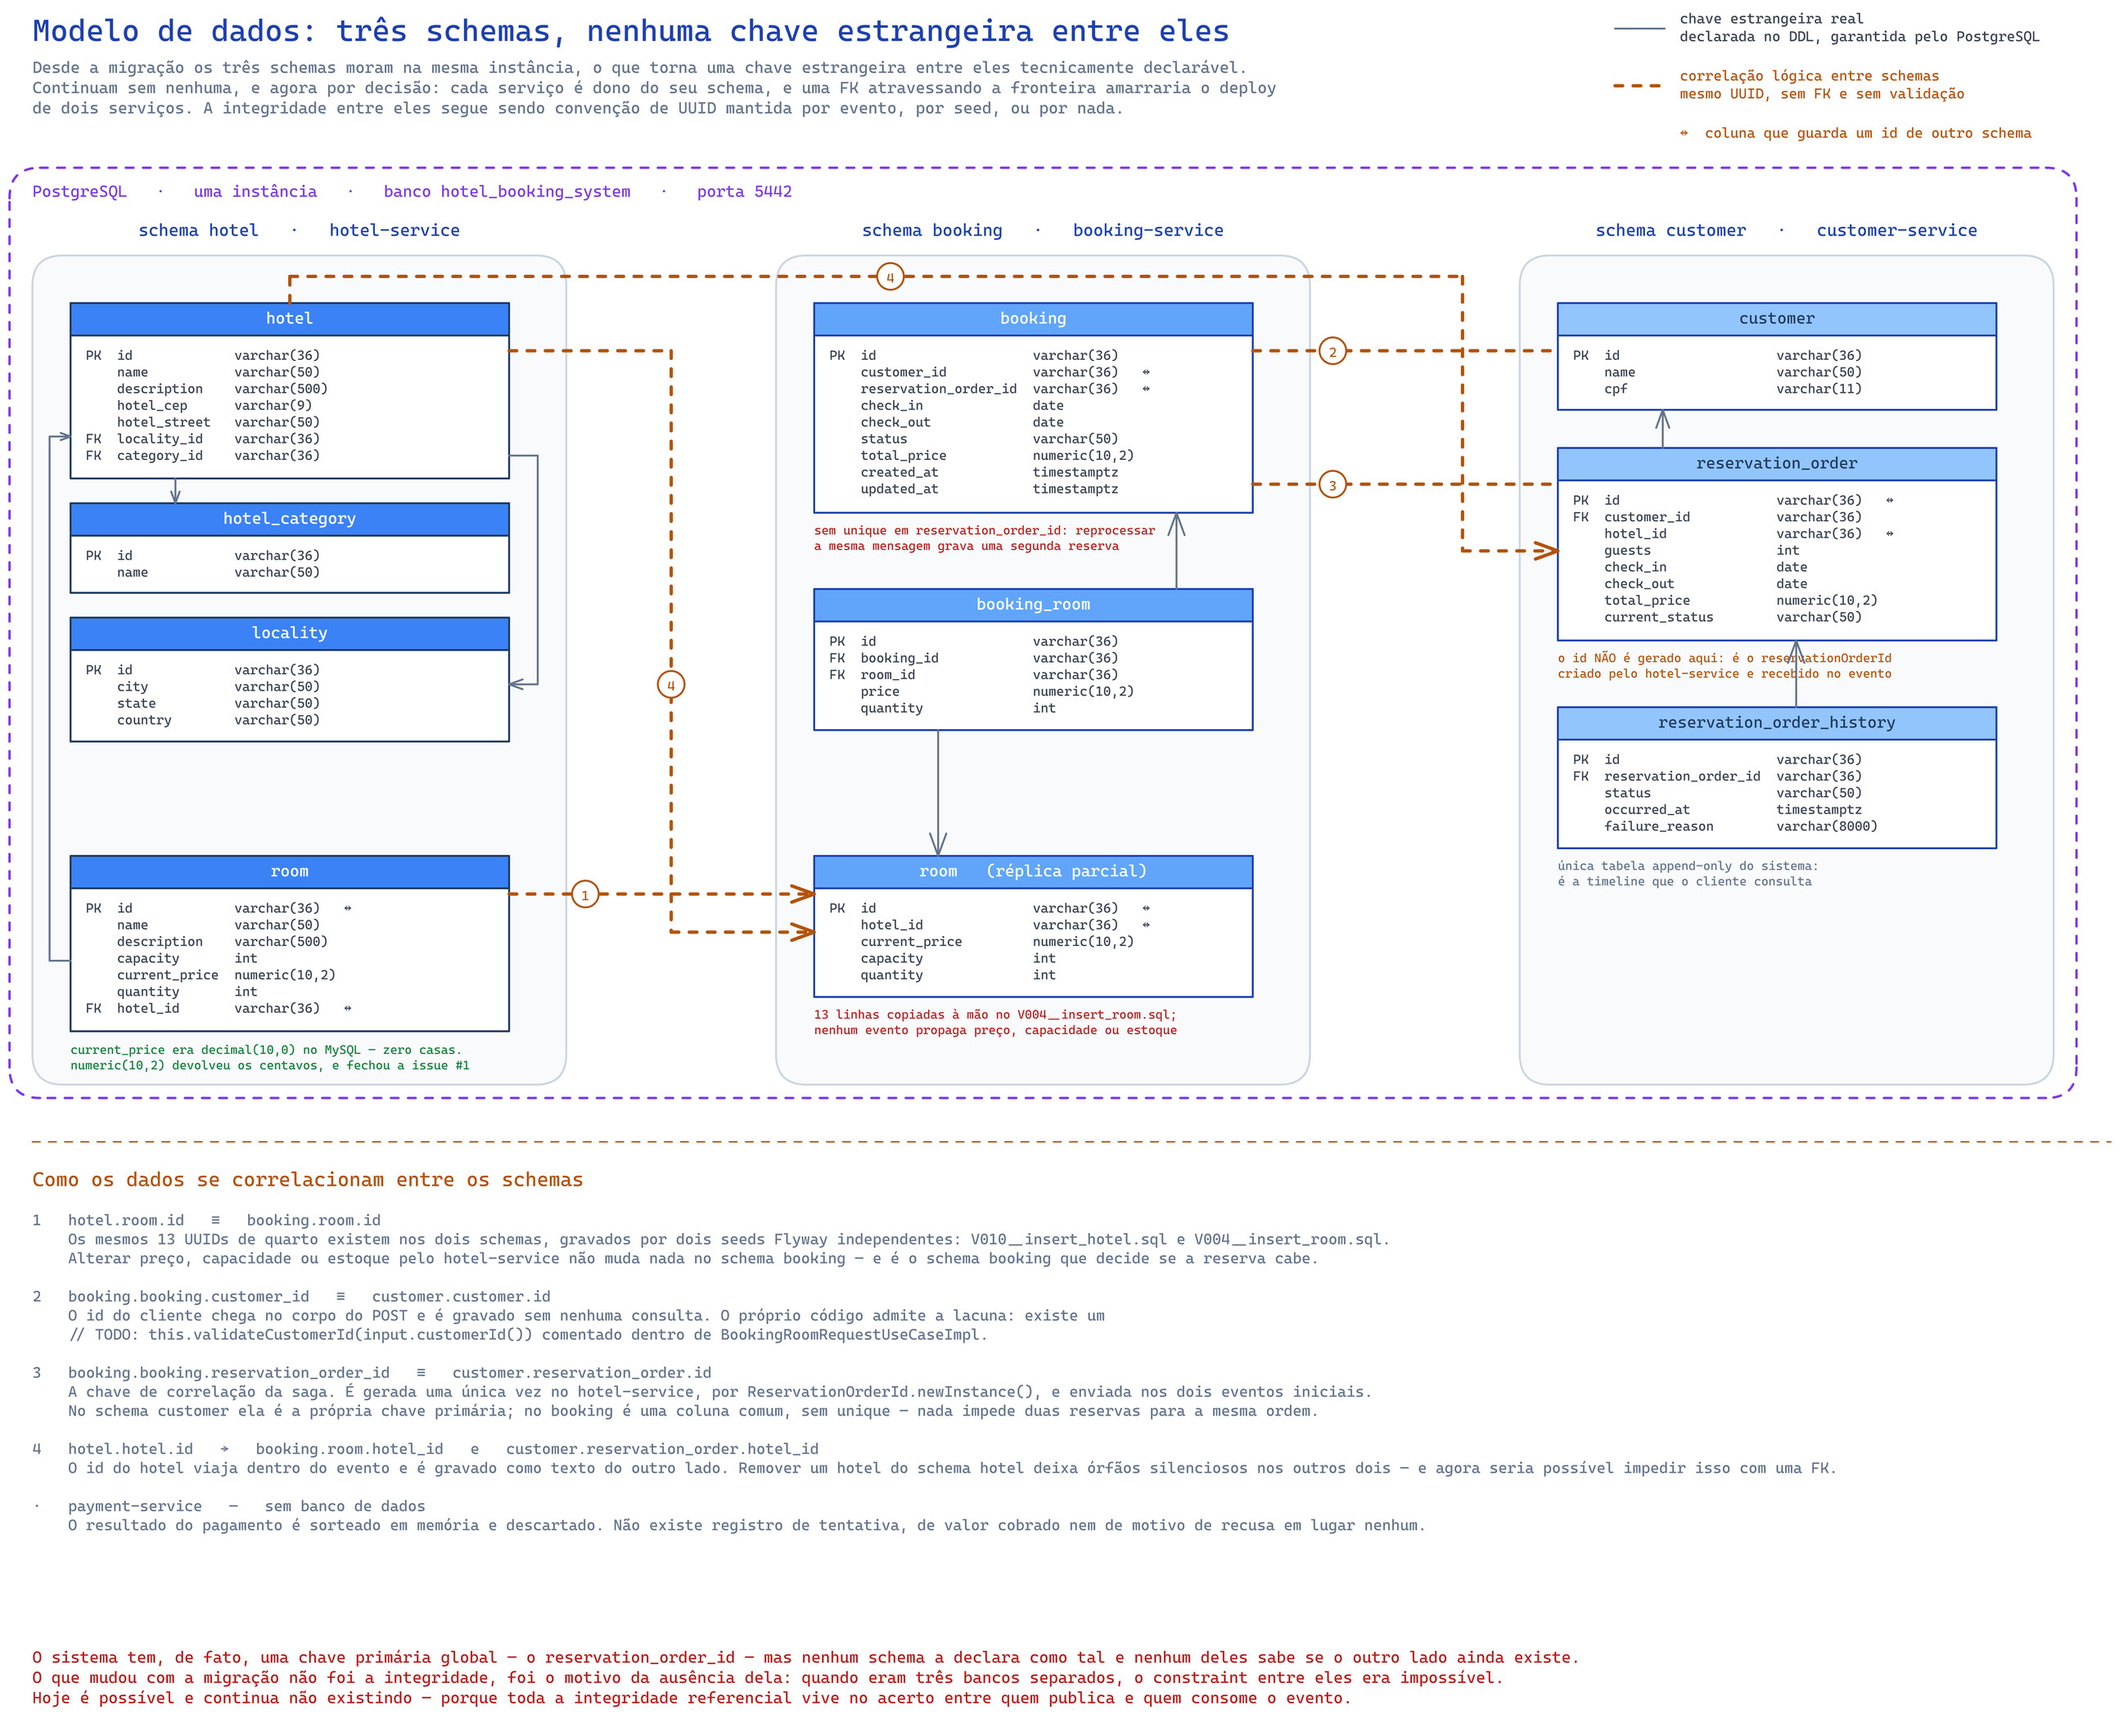
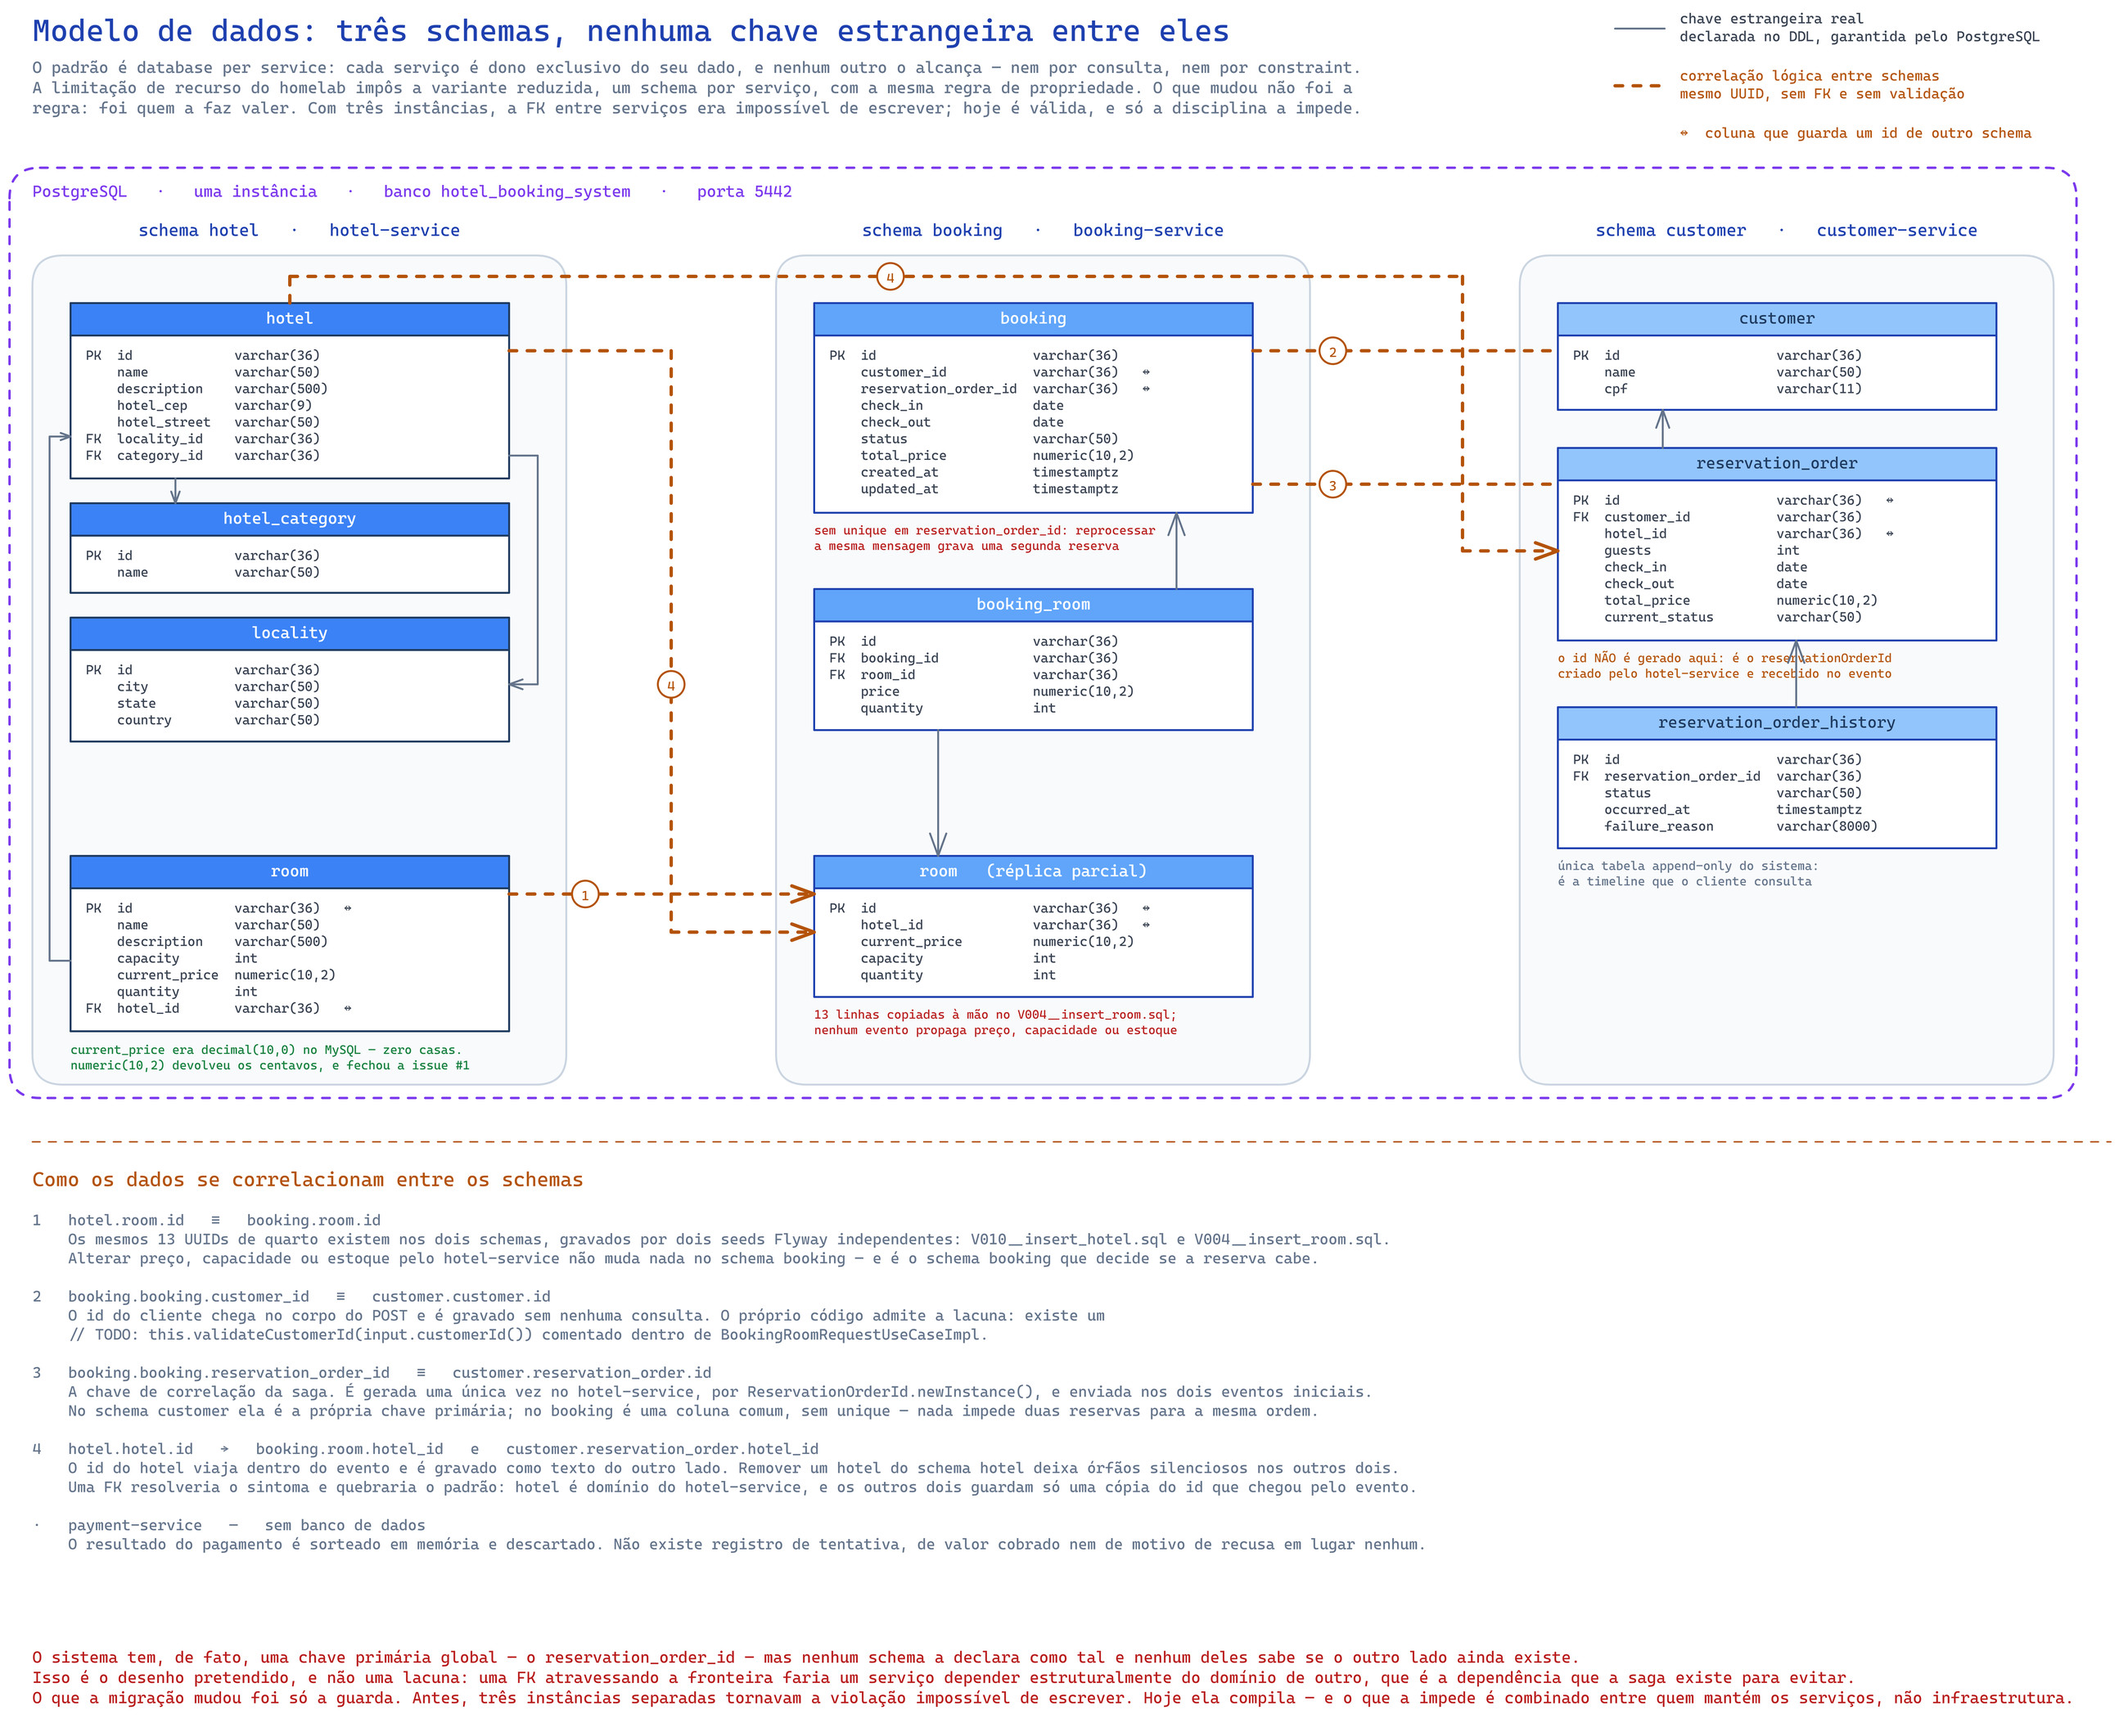
docs: corrige o enquadramento da ausência de FK entre schemas
O commit anterior tratou a chave estrangeira entre serviços como uma
possibilidade que a migração destravou, e o rodapé do diagrama chegava a
sugeri-la — "Uma FK resolveria isso". Está errado, e na direção que mais
importa.

O padrão seguido é database per service. A redução para um schema por serviço
veio da limitação de recurso do homelab e não muda a regra: cada serviço é dono
exclusivo do seu dado. Uma FK de `booking` para `customer` faria o
`booking-service` depender estruturalmente de uma tabela do domínio do
`customer-service` — que é precisamente a dependência que a saga existe para
evitar. A ausência dela é o desenho, não uma lacuna.

O que a migração mudou foi só a guarda. Com três instâncias de MySQL separadas
a violação era impossível de escrever; numa instância só ela compila, e o que a
impede virou combinado. O diagrama e o README passam a dizer isso como aviso, e
o `AGENTS.md` ganha a regra explícita para que ninguém "conserte" a falta de FK
mais adiante.

Refs #18

Changed region(s): [[0.0, 0.9688, 0.8723, 1.0], [0.0312, 0.8438, 0.6542, 0.9062], [0.0, 0.0312, 0.6231, 0.0625]]

diff --git a/README.md b/README.md
@@ -123,9 +123,11 @@ Linha sólida é chave estrangeira de verdade, declarada no DDL e garantida pelo
 ficam **dentro** de um único schema. Linha tracejada laranja é correlação lógica: o mesmo UUID gravado dos
 dois lados, sem `FOREIGN KEY`, sem validação e sem ninguém verificando se o outro lado ainda existe.
 
-Os três schemas moram na mesma instância, o que torna as travessias abaixo tecnicamente declaráveis como
-chave estrangeira. Elas continuam sem declaração de propósito: cada serviço é dono do seu schema, e uma FK
-entre schemas amarraria o deploy dos dois.
+As travessias abaixo não têm chave estrangeira **de propósito**, e a razão não é técnica. O padrão que o
+sistema segue é *database per service*: cada serviço é dono exclusivo do seu dado, e nenhum outro alcança
+esse dado — nem por consulta, nem por constraint. Uma FK de `booking` para `customer` diria que o
+`booking-service` depende estruturalmente de uma tabela que pertence ao domínio do `customer-service`, e é
+precisamente essa dependência que a saga existe para evitar.
 
 São quatro travessias, e cada uma se sustenta em algo diferente:
 
@@ -151,11 +153,18 @@ O diagrama acima é o de depois da migração. O de antes está versionado ao la
 [`05-data-model-antes-mysql.jpg`](docs/diagrams/05-data-model-antes-mysql.jpg), e vale abrir os dois lado a
 lado: eram três instâncias de MySQL, uma por serviço, em portas separadas.
 
-A diferença que o desenho revela e a prosa esconde é qual era o **motivo** da ausência de integridade entre
-os serviços. Com três bancos separados, um `FOREIGN KEY` atravessando a fronteira era impossível — não havia
-o que discutir. Com três schemas na mesma instância ele passou a ser declarável, e a ausência virou decisão:
-uma FK entre schemas amarraria o deploy de dois serviços. O sistema continua exatamente tão frouxo quanto
-era; o que mudou é que agora isso é uma escolha.
+A diferença que o desenho revela e a prosa esconde não é sobre o modelo, que é o mesmo. É sobre **o que
+protege o isolamento entre os serviços**.
+
+*Database per service* continua sendo o padrão seguido; o que a limitação de recurso do homelab impôs foi a
+variante reduzida, um schema por serviço, com a mesma regra de propriedade do dado. A regra não afrouxou —
+mas quem a fazia valer, sim. Com três instâncias separadas, uma FK atravessando a fronteira era impossível
+de escrever: o erro não tinha como ser cometido. Com três schemas na mesma instância ela passou a ser
+sintaticamente válida, e o que impede a violação hoje é disciplina, não infraestrutura.
+
+Isso não é um convite para declará-la. É o inverso: a barreira que era física virou combinado, e vale saber
+disso antes que alguém adicione a constraint "para garantir a integridade" e acople o deploy de dois
+serviços sem perceber.
 
 ---
 

diff --git a/AGENTS.md b/AGENTS.md
@@ -184,8 +184,21 @@ par segue esse nome; nos outros casos o diagrama é editado no lugar.
 
 Os três serviços com banco dividem uma instância PostgreSQL e têm um **schema** próprio
 (`hotel`, `booking`, `customer`), com migrations Flyway em `src/main/resources/db/migration`.
-Foi um schema por serviço, e não um banco por serviço, por causa do homelab onde o sistema
-roda — a separação de nomes é a mesma, e o custo em processos, não.
+
+O padrão é *database per service*, e a redução para um schema por serviço é consequência da
+limitação de recurso do homelab, não uma mudança de desenho: **cada serviço continua dono
+exclusivo do seu dado, e nenhum outro o alcança — nem por consulta, nem por constraint.**
+
+Daí uma regra que o layout compartilhado deixou de proteger sozinho: **nunca declare uma
+chave estrangeira atravessando schemas.** Colunas como `booking.booking.customer_id` e
+`booking.room.hotel_id` guardam ids de domínios alheios de propósito; a ausência de FK ali é
+o desenho, não uma lacuna a corrigir. Uma FK faria o serviço depender estruturalmente do
+domínio de outro, que é exatamente a dependência que a saga existe para evitar — e acoplaria
+os deploys e as migrations dos dois.
+
+Enquanto eram três instâncias de MySQL separadas, essa violação era impossível de escrever.
+Numa instância só ela compila, então o que a impede passou a ser esta linha. Os dois desenhos
+estão lado a lado em `docs/diagrams/05-data-model-antes-mysql.jpg` e `-depois-postgres.jpg`.
 
 ### Camadas dentro de cada serviço
 
